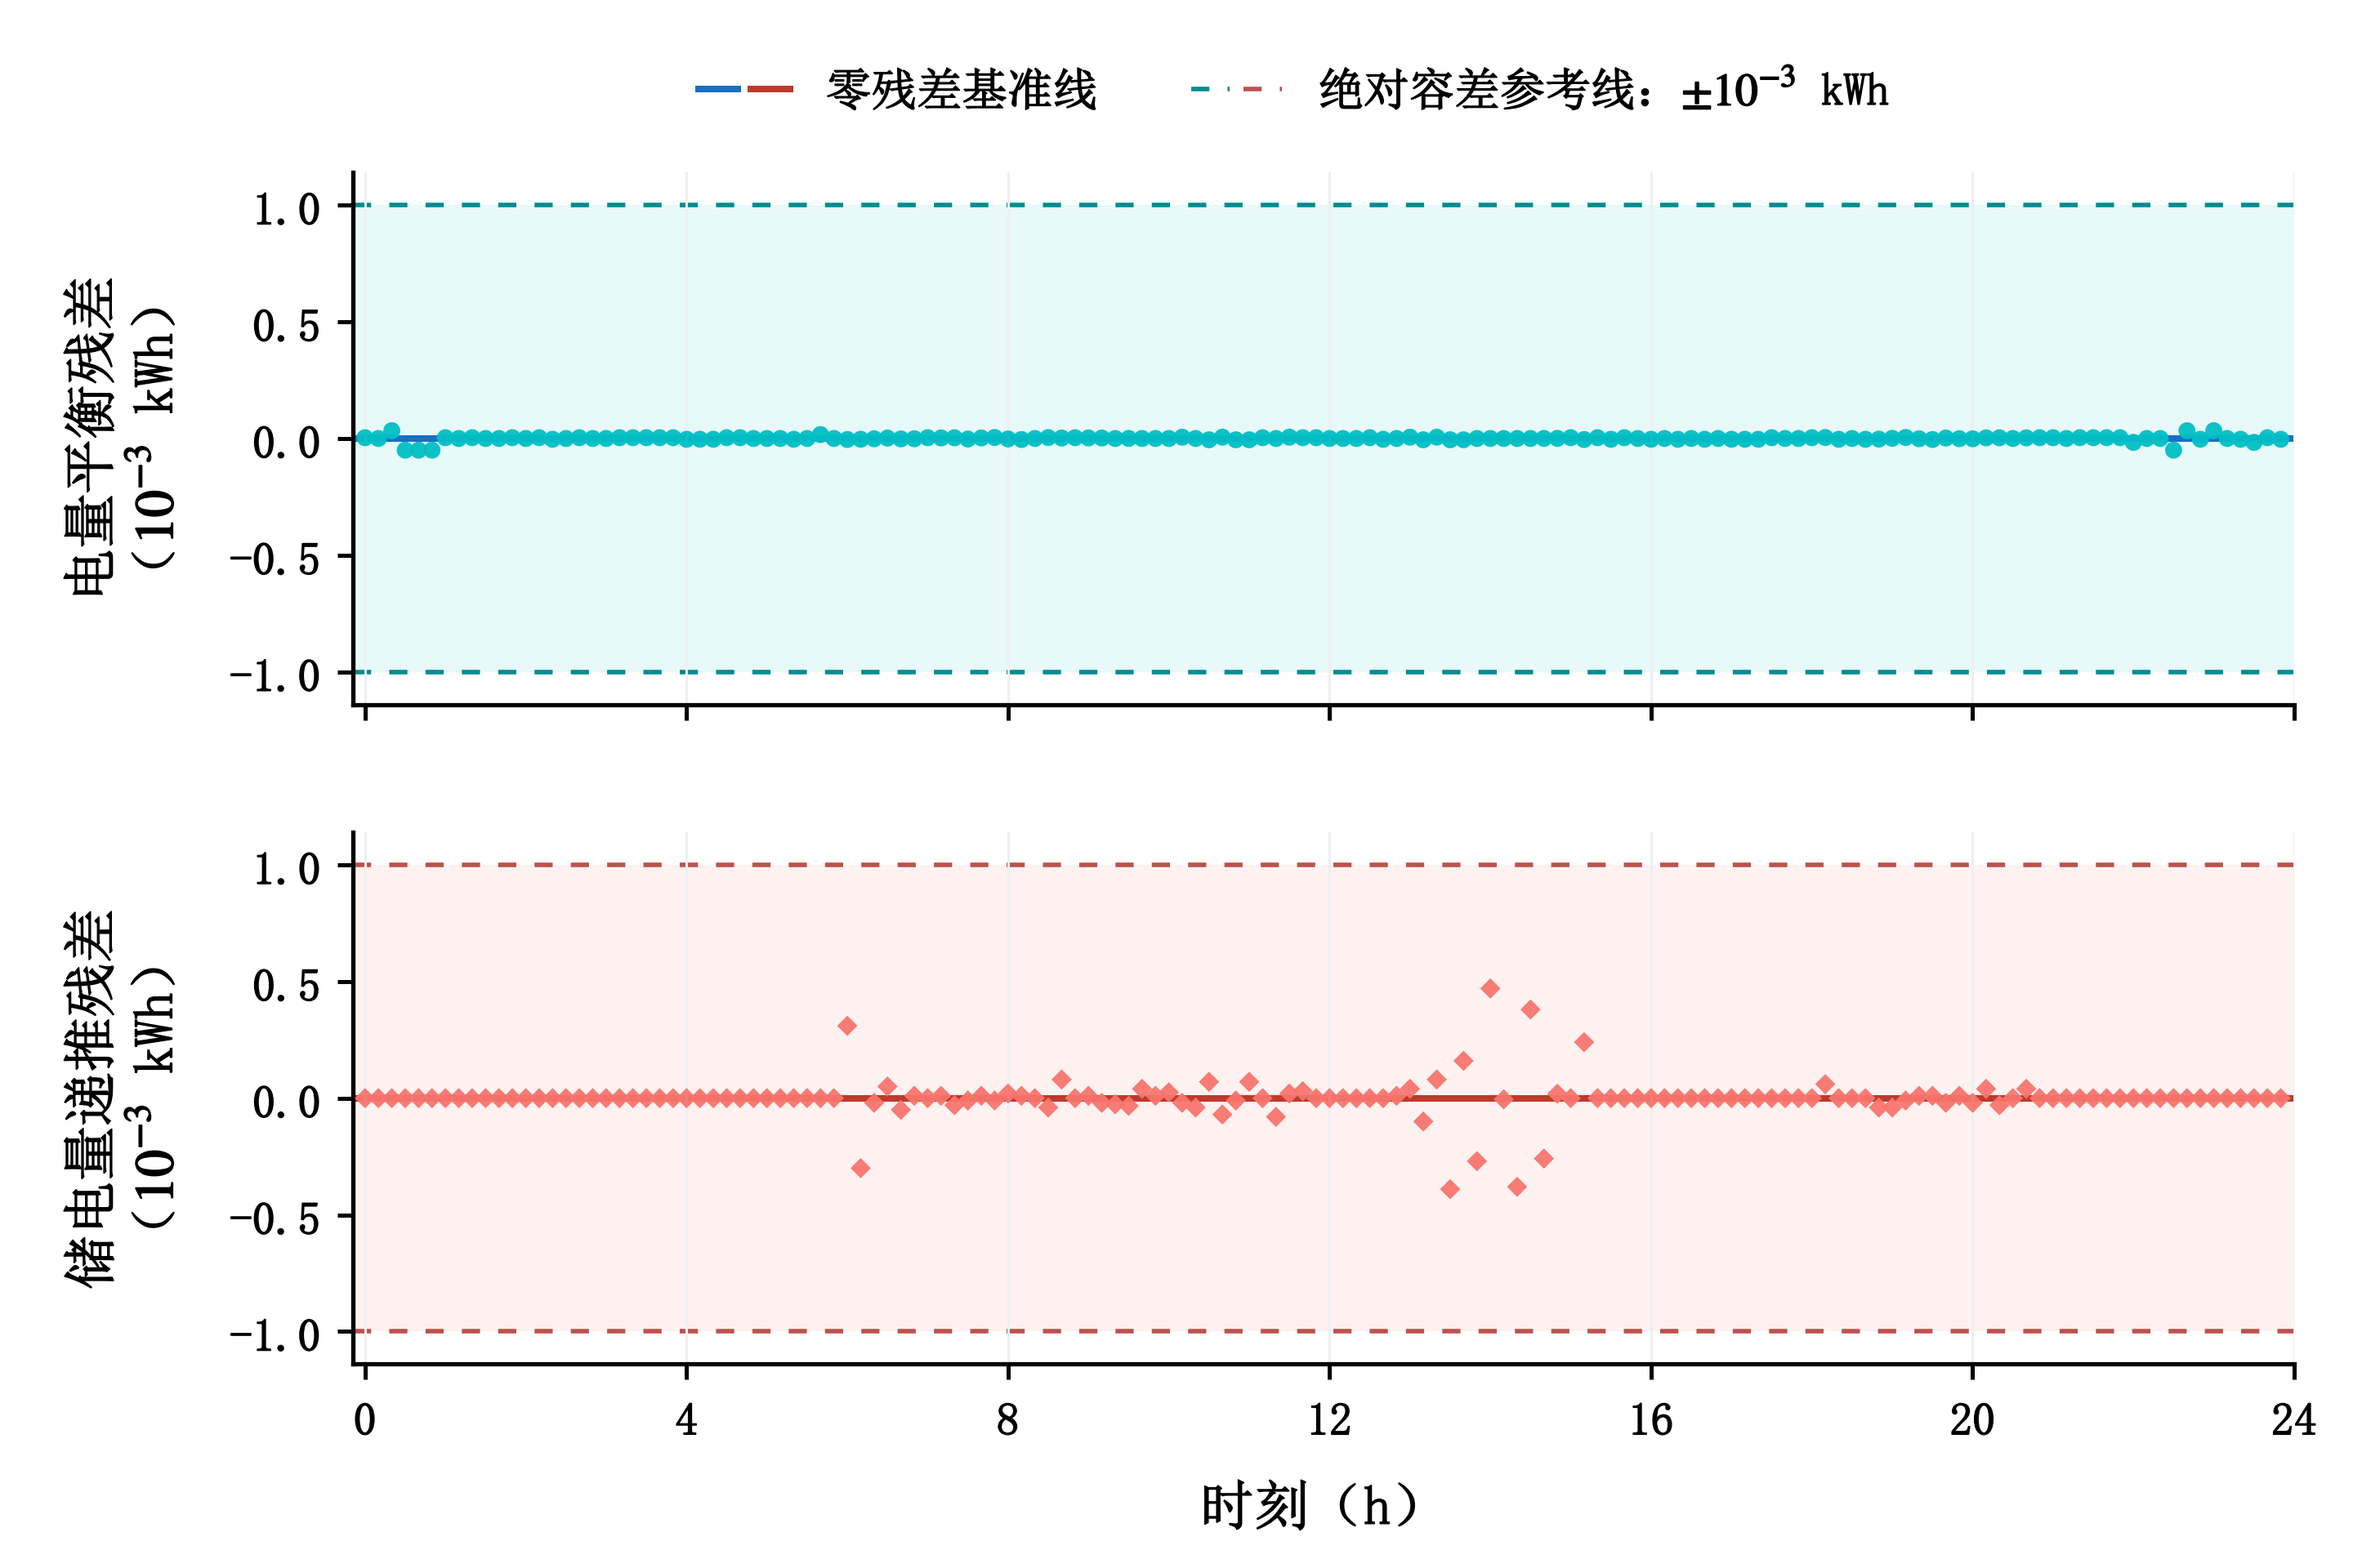
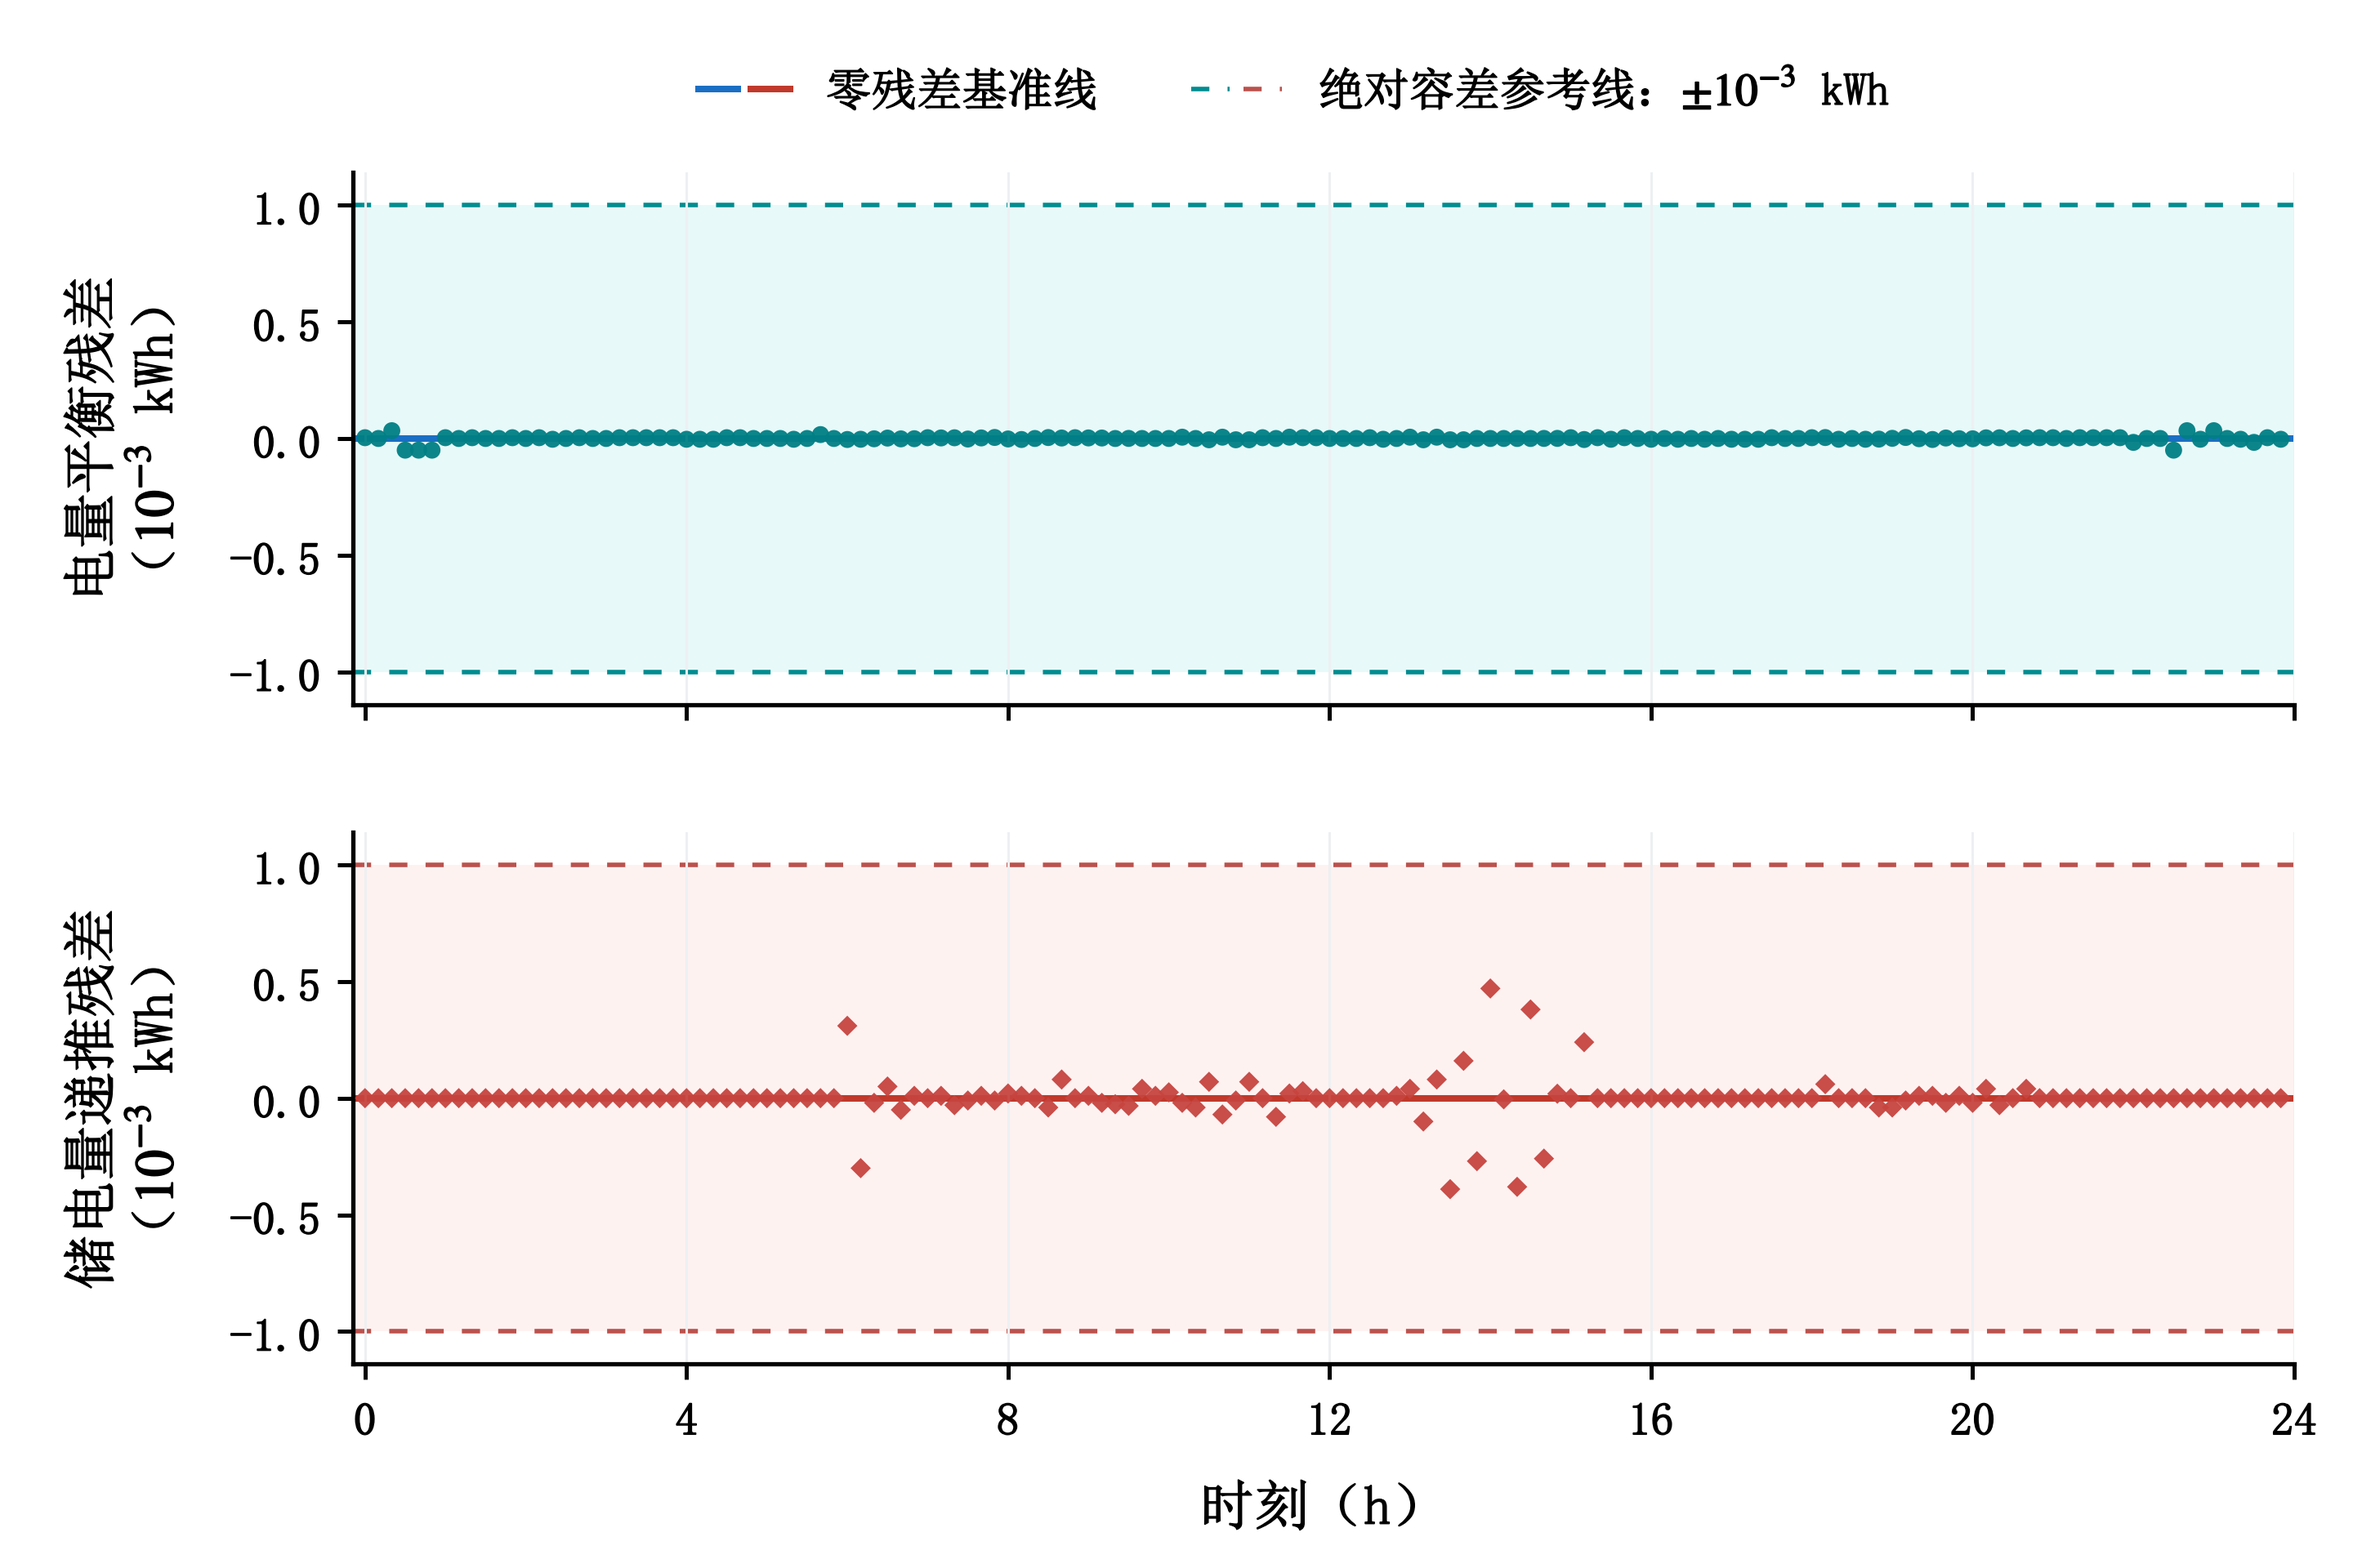
Update on Overleaf.

diff --git a/sections/q2.tex b/sections/q2.tex
@@ -8,6 +8,17 @@
 
 据此，本问按四段求解：先对附件~2 的负载与光伏分别做点预测，再将净负载分位送入日前线性规划，锁死计划购电后按当天真值做保护回放，总费用为计划费加 $5$ 倍紧急费。保护回放是指：日内用真实负载与光伏执行已锁死的计划，放电时按比例 $\rho$ 预留日前计划储电量，不一次放到下限，缺口记紧急购电。日前规划约束同问题一，并增加日末库存。点预测必须分开建：负载有星期周期、隔日相关弱，不能靠同刻平均，完整建模见下节；光伏无星期周期、相邻日惯性强，用近 $7$ 日同刻均值。净负载覆盖率取 $0.8$，残差取决策日前全部历史。日末库存与 $\rho$ 见后文。
 
+\subsection{问题分析}
+
+问题二要求在当天负载与光伏功率未知的情况下，于每天 $0{:}00$ 提前制定计划购电方案。计划购电量一旦确定便不能修改，而实际供电不足部分需按交易时刻电价的 $5$ 倍紧急购电，因此本问的关键是如何利用历史数据预测当天供需，并在预测存在误差的情况下合理控制计划购电不足的风险。
+
+首先进行日前预测。考虑到负载具有明显的星期周期，同时受近期历史状态影响，本文采用扩展窗口 XGBoost，每天仅利用决策日前已经发生的数据重新训练，预测当天各时段负载；光伏功率的星期周期较弱而相邻日惯性较强，因此采用近 $7$ 日同刻均值进行预测。由于计划购电不足的损失明显高于计划过量，直接使用点预测结果容易产生高额紧急购电费用。为此，进一步根据历史净负载预测残差进行分位修正。由正常购电与 $5$ 倍紧急购电的不对称成本得到临界覆盖率 $0.8$，据此提高日前计划对实际净负载的覆盖能力。
+
+在完成预测与风险修正后，沿用问题一的线性规划框架，对全天计划购电量和储能运行进行联合优化，并将日前得到的计划购电量锁定。实际运行阶段再代入当天真实负载与光伏功率进行逐时段回放：当计划电量不足时优先利用储能补充，并通过预留比例 $\rho$ 限制储能过早放至下限，剩余缺口通过紧急购电满足；当天实际日末储电量作为下一日的初始状态，从而将连续多日的储能运行联系起来。
+
+因此，本问形成“扩展窗 XGBoost 与 $7$ 日同刻均值预测—净负载 $0.8$ 分位修正—日前线性规划—日内保护回放”的完整求解流程，并对 $2025$ 年 $2$ 月 $1$ 日至 $12$ 月 $31$ 日进行滚动回测。最终通过全年总购电费用、紧急购电费用与紧急购电量等指标，评价预测误差控制和储能调度对降低实际购电成本的作用。
+
+
 \subsection{模型建立}
 
 \subsubsection{决策变量}
